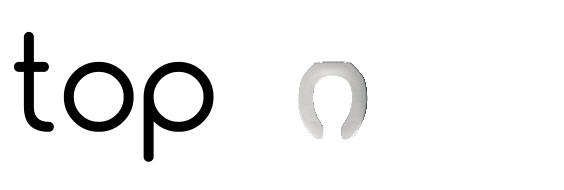
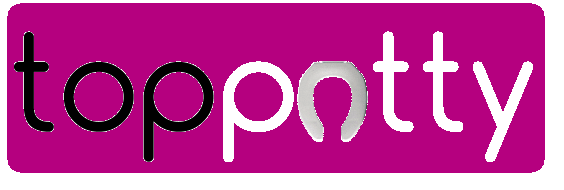
updates readme

diff --git a/README.md b/README.md
@@ -1,4 +1,4 @@
-![Logo](https://raw.github.com/MBSchneider/top_potty/master/app/assets/images/toppotty.png)
+![Logo](https://raw.github.com/MBSchneider/top_potty/master/app/assets/images/toppotty2.png)
 
 By [Matt Sayre](https://github.com/mlsayre) and [Matt Schneider](https://github.com/mbschneider).
 
